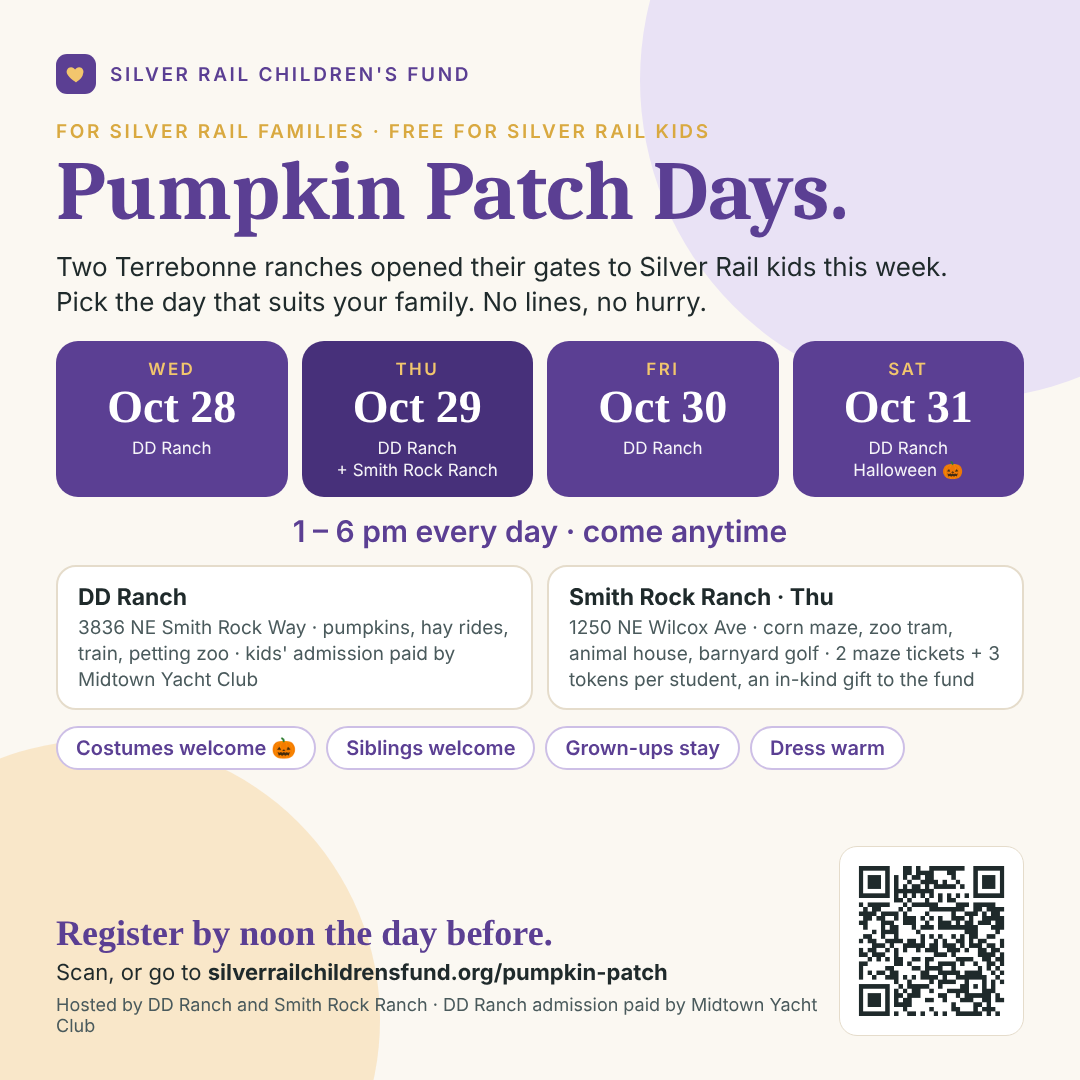
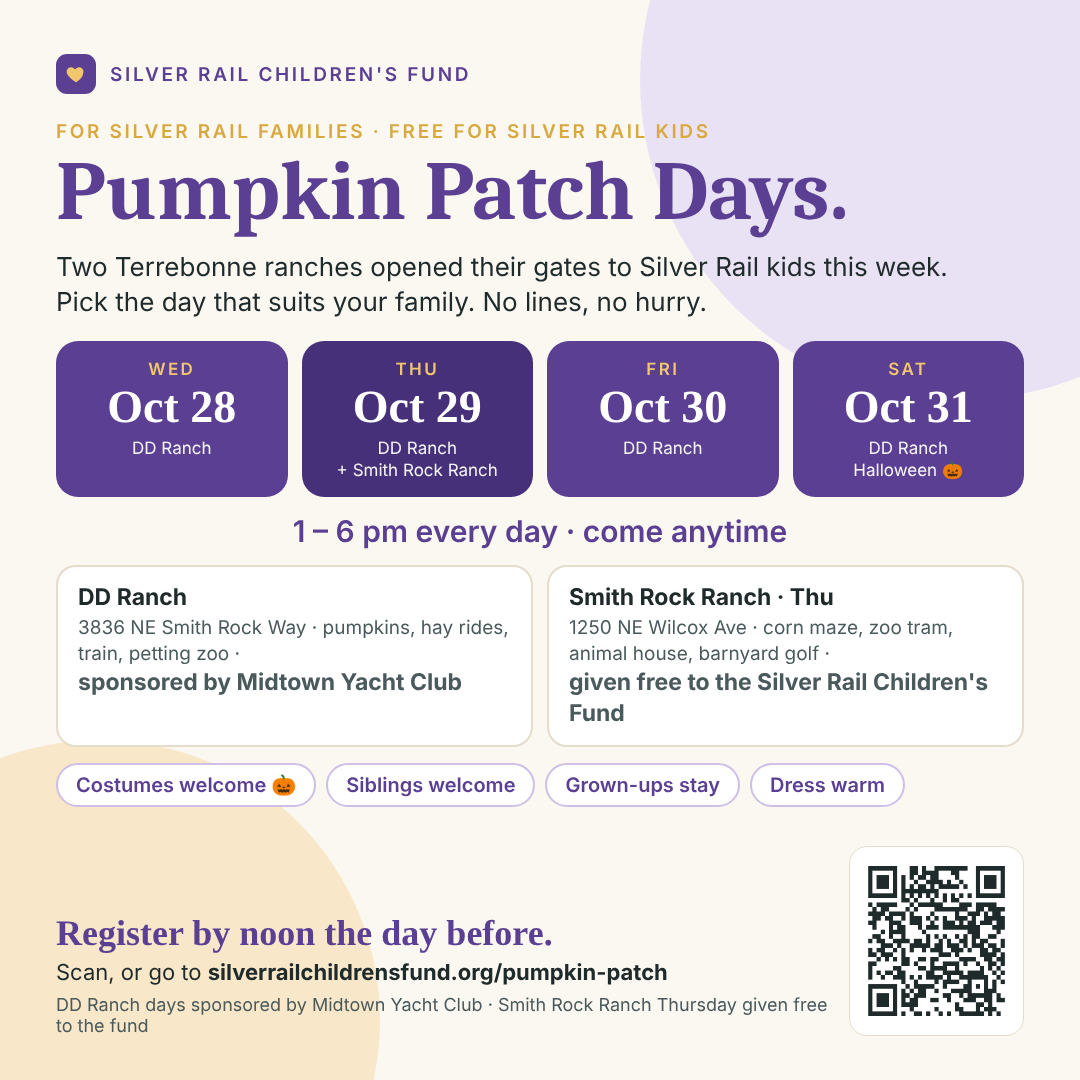
Sponsor credits: MYC for DD Ranch, Smith Rock free to the fund

diff --git a/pumpkin-patch.html b/pumpkin-patch.html
@@ -186,15 +186,15 @@ footer.sf .sf-legal a{color:var(--ink-2)}
     <h2>Pick your day.</h2>
     <p class="note" style="max-width:720px">Pick the one day that suits your family best. Each day has a limit so the ranches can keep it unhurried; when a day fills, it'll show here as full.</p>
     <div class="sess" style="max-width:1140px;grid-template-columns:repeat(auto-fit,minmax(240px,1fr))">
-      <div class="card open"><span class="tag go">Open</span><b>Wed, Oct 28</b><p>1:00 – 6:00 pm<br>DD Ranch<br>3836 NE Smith Rock Way, Terrebonne<br>Silver Rail kids free</p></div>
-      <div class="card open"><span class="tag go">Open</span><b>Thu, Oct 29</b><p>1:00 – 6:00 pm<br>DD Ranch<br>3836 NE Smith Rock Way, Terrebonne<br>Silver Rail kids free</p></div>
-      <div class="card open"><span class="tag go">Open</span><b>Thu, Oct 29</b><p>1:00 – 6:00 pm<br>Smith Rock Ranch<br>1250 NE Wilcox Ave, Terrebonne<br>2 maze tickets + 3 tokens per student</p></div>
-      <div class="card open"><span class="tag go">Open</span><b>Fri, Oct 30</b><p>1:00 – 6:00 pm<br>DD Ranch<br>3836 NE Smith Rock Way, Terrebonne<br>Silver Rail kids free</p></div>
-      <div class="card open"><span class="tag go">Open</span><b>Sat, Oct 31</b><p>1:00 – 6:00 pm · Halloween<br>DD Ranch<br>3836 NE Smith Rock Way, Terrebonne<br>Silver Rail kids free</p></div>
+      <div class="card open"><span class="tag go">Open</span><b>Wed, Oct 28</b><p>1:00 – 6:00 pm<br>DD Ranch<br>3836 NE Smith Rock Way, Terrebonne<br>Silver Rail kids free · sponsored by Midtown Yacht Club</p></div>
+      <div class="card open"><span class="tag go">Open</span><b>Thu, Oct 29</b><p>1:00 – 6:00 pm<br>DD Ranch<br>3836 NE Smith Rock Way, Terrebonne<br>Silver Rail kids free · sponsored by Midtown Yacht Club</p></div>
+      <div class="card open"><span class="tag go">Open</span><b>Thu, Oct 29</b><p>1:00 – 6:00 pm<br>Smith Rock Ranch<br>1250 NE Wilcox Ave, Terrebonne<br>Free for Silver Rail students · a gift from Smith Rock Ranch to the fund</p></div>
+      <div class="card open"><span class="tag go">Open</span><b>Fri, Oct 30</b><p>1:00 – 6:00 pm<br>DD Ranch<br>3836 NE Smith Rock Way, Terrebonne<br>Silver Rail kids free · sponsored by Midtown Yacht Club</p></div>
+      <div class="card open"><span class="tag go">Open</span><b>Sat, Oct 31</b><p>1:00 – 6:00 pm · Halloween<br>DD Ranch<br>3836 NE Smith Rock Way, Terrebonne<br>Silver Rail kids free · sponsored by Midtown Yacht Club</p></div>
     </div>
     <div class="keep" style="margin-top:26px;max-width:1140px">
       <div>
-        <h3>DD Ranch · Wed–Sat</h3>
+        <h3>DD Ranch · Wed–Sat · sponsored by Midtown Yacht Club</h3>
         <ul>
           <li>Pumpkin patch, hay rides, train rides, petting zoo, pony rides, and the rest of the ranch's fall setup. Food trucks on site most days.</li>
           <li>Silver Rail kids' admission is paid by <a href="https://www.midtownyachtclub.com/" target="_blank" rel="noopener">Midtown Yacht Club</a>, who pledged the fund's first outing before the fund had a bank account.</li>
@@ -203,10 +203,10 @@ footer.sf .sf-legal a{color:var(--ink-2)}
         </ul>
       </div>
       <div>
-        <h3>Smith Rock Ranch · Thursday only</h3>
+        <h3>Smith Rock Ranch · Thursday · given free to the fund</h3>
         <ul>
           <li>The corn maze, the zoo tram, the animal house, barnyard golf, and the Snoopy ride. Not running Thursday: hayride and pony rides (staffing), and the pumpkin cannons and shooting gallery, which the ranch is keeping silent out of care for the children most affected and anyone for whom a sudden loud sound is too much right now.</li>
-          <li>Each Silver Rail student gets two maze tickets and three activity tokens from the ranch, an in-kind donation to the fund. Parents and siblings can buy extras at the gate or online.</li>
+          <li>Smith Rock Ranch is giving this day to the Silver Rail Children's Fund for free: every Silver Rail student's two maze tickets and three activity tokens are the ranch's gift. Parents and siblings can buy extras at the gate or online.</li>
           <li>The ranch said yes in the middle of its busiest week and a family emergency of its own. We won't forget it.</li>
         </ul>
       </div>
@@ -253,14 +253,14 @@ footer.sf .sf-legal a{color:var(--ink-2)}
 <section id="thanks">
   <div class="wrap">
     <div class="eyebrow">Thank you</div>
-    <h2>Two ranches and a bar in Midtown, for our children now.</h2>
+    <h2>Thank you, DD Ranch, Smith Rock Ranch, and Midtown Yacht Club.</h2>
     <div class="thanks">
       <div class="logos">
         <div class="d" style="width:130px"><a href="https://www.midtownyachtclub.com/" target="_blank" rel="noopener"><img src="midtown-yacht-club.png" alt="Midtown Yacht Club"></a></div>
       </div>
       <div>
         <h3>DD Ranch, Smith Rock Ranch &amp; Midtown Yacht Club</h3>
-        <p><a href="https://www.ddranch.net/" target="_blank" rel="noopener">DD Ranch</a> opened four afternoons to Silver Rail families, and <a href="https://www.midtownyachtclub.com/" target="_blank" rel="noopener">Midtown Yacht Club</a> is paying for every Silver Rail kid who walks through its gate. <a href="https://www.smithrockranch.com/" target="_blank" rel="noopener">Smith Rock Ranch</a> is hosting Thursday and giving every student's maze tickets and tokens as an in-kind donation to the fund. Thank you, all three, from every parent on the board.</p>
+        <p><b>DD Ranch days are sponsored by <a href="https://www.midtownyachtclub.com/" target="_blank" rel="noopener">Midtown Yacht Club</a></b>, who pledged to pay for the fund's first outing before the fund had a bank account and is covering every Silver Rail kid who walks through <a href="https://www.ddranch.net/" target="_blank" rel="noopener">DD Ranch</a>'s gate Wednesday through Saturday. <b><a href="https://www.smithrockranch.com/" target="_blank" rel="noopener">Smith Rock Ranch</a> is giving Thursday to the Silver Rail Children's Fund for free</b>: the day, the students' maze tickets, and their tokens, as an in-kind donation. Thank you, all three, from every parent on the board.</p>
       </div>
     </div>
   </div>
